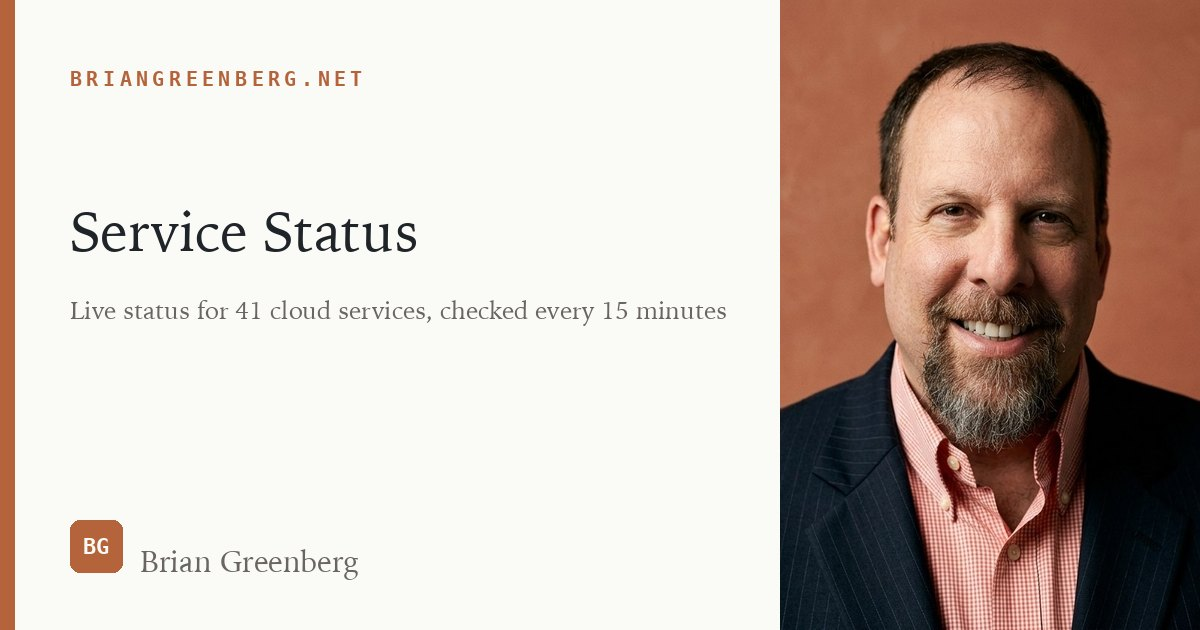
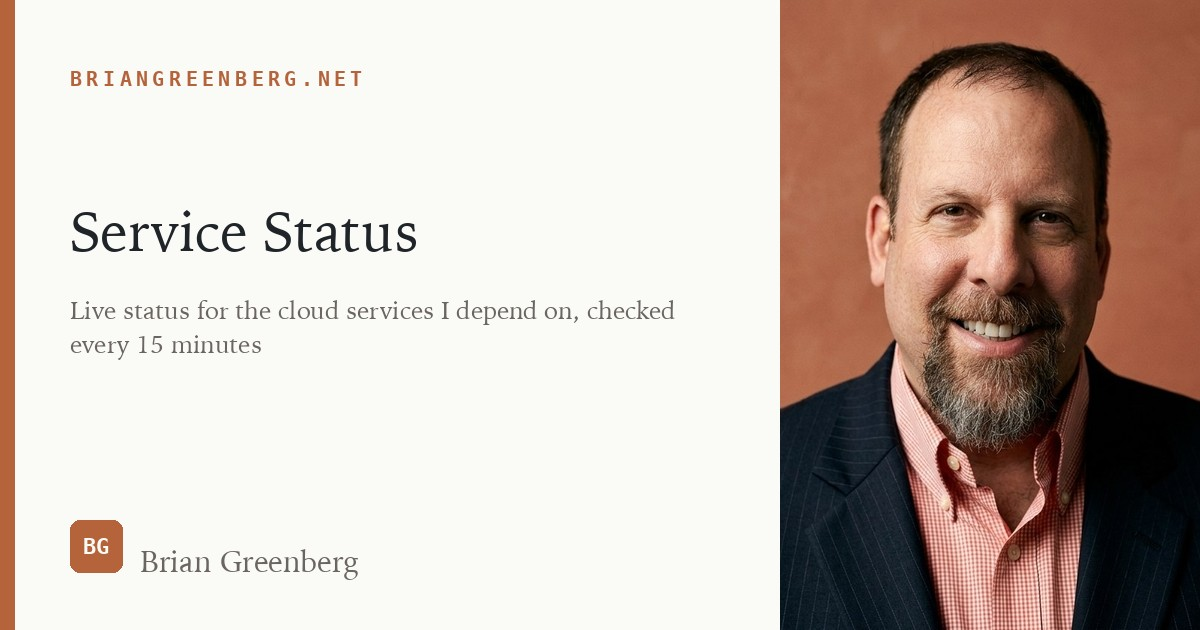
docs: full README line-by-line pass; count-free share card; identifier note in SECURITY.md (#52)
A grep-sweep is not a read-through — a full pass found five claims the
pattern sweeps missed because they matched no drift pattern:
- the troubleshooting row said the limits block is "commented out" (it is
  active, and deliberately so — the row now explains the plan-lapse tripwire)
- "~35 third-party feeds" (46; now phrased count-free so it cannot drift)
- "five vendors cannot show a component breakdown" — four of the five gained
  breakdowns on 2026-08-01; live-verified against /api/status: only Signal
  remains, and the bullet now says so
- Okta's 10 ms budget rationale re-anchored to the perf gate
- audit PR range and required-check count brought current

card.jpg regenerated from the site's own make_card.py (render_page mode)
with a count-free subtitle — the old card hardcoded "41 cloud services" on a
46-vendor board, and a baked number can only ever drift.

SECURITY.md gains the committed-identifiers-are-not-credentials note (D1
database_id, zone names): the reasoning is now durable instead of living in
one wrangler.jsonc comment.

Changed region(s): [[0.185, 0.4825, 0.6167, 0.5127], [0.0617, 0.5429, 0.2158, 0.573]]

diff --git a/README.md b/README.md
@@ -3,11 +3,12 @@
 [![CI](https://github.com/bjgreenberg/vendor-dashboard/actions/workflows/ci.yml/badge.svg)](https://github.com/bjgreenberg/vendor-dashboard/actions/workflows/ci.yml)
 [![License: Apache-2.0](https://img.shields.io/badge/License-Apache_2.0-blue.svg)](LICENSE)
 
-Last updated: 2026-08-02 10:23 PM CDT
+Last updated: 2026-08-02 10:31 PM CDT
 
 Monitors the live operational status of a configurable set of SaaS and cloud
 services by polling each vendor's own public status endpoint, and serves a
-single-pane dashboard. Runs as a Cloudflare Worker on a 15-minute schedule.
+single-pane dashboard. Runs as a Cloudflare Worker; every vendor is
+re-checked on a 15-minute cycle.
 
 Live at **<https://briangreenberg.net/service-status>**.
 
@@ -294,7 +295,7 @@ All third-party Actions are SHA-pinned; container tools are digest-pinned.
   data", never "All systems operational".
 - **Staleness is surfaced.** If the newest snapshot is older than two collection
   intervals, the page says so — the dead-man's switch for our own cron.
-- **Vendor content is untrusted input.** ~35 third-party feeds are escaped on
+- **Vendor content is untrusted input.** Every vendor feed is escaped on
   output; a strict CSP with a per-response nonce is the second line.
 - **404 is treated as retryable**, unusually. Microsoft's endpoint was measured
   at ~50% availability; the cost of being wrong is bounded because the answer
@@ -319,15 +320,16 @@ All third-party Actions are SHA-pinned; container tools are digest-pinned.
   Entra, Intune and Defender are absent. The row is labelled accordingly.
   Enterprise tenant health requires the authenticated Microsoft Graph Service
   Health API.
-- **Five vendors cannot show a component breakdown.** Google, Okta and Concur
-  publish only current *incidents*; Iorad and Stormboard publish a single
-  page-level state. There is no service catalogue to expand without inventing
-  one, so those rows have no disclosure.
+- **Signal cannot show a component breakdown** — it publishes a single
+  page-level sentence and nothing underneath (verified 2026-08-01). Every
+  other vendor now lists components, several via secondary catalogue
+  endpoints found by reading their status pages' network logs.
 - **Okta has no public JSON API** — `summary.json`, `index.json`,
   `history.atom` and `history.rss` all return 401. The adapter parses the
   incident records the status page embeds as JSON, using `indexOf` plus a linear
-  bracket walk rather than regex, because the page is ~347 KB against a 10 ms
-  CPU budget.
+  bracket walk rather than regex — written against the original free plan's
+  10 ms CPU budget and kept because cheap parsing is still enforced (see the
+  `perf` gate).
 - **No uptime history UI yet.** History *is* recorded from day one; only the
   reporting is unbuilt.
 
@@ -342,14 +344,14 @@ All third-party Actions are SHA-pinned; container tools are digest-pinned.
 | Is collection alive right now? | `curl -sf /service-status/health` — 200 with `age_minutes` while fresh; 503 once the snapshot is older than three cycles (45 min) or D1 is unreachable |
 | "This data may be stale" banner | Collection has not succeeded in >30 minutes. The collector, not the vendors, is the problem |
 | `Apple` unknown locally but fine in production | A host with no IPv6 egress. Node's fetch tries AAAA first; Apple is the only vendor publishing AAAA records |
-| Deploy fails: "CPU limits are not supported for the Free plan" | The `limits` block is paid-only. It is commented out in `wrangler.jsonc` |
+| Deploy fails: "CPU limits are not supported for the Free plan" | The declared `limits` block is a deliberate tripwire: it means the Workers Paid subscription has lapsed. Restore the plan (or consciously remove the block AND accept 10 ms CPU kills) |
 
 ## Going public
 
 This repository is **private**. Pre-flight completed 2026-08-02 (audit
 follow-up): vendor marks untracked as a build artifact (trademark-clean tree),
 internal project-notes references removed, reference-implementation framing
-added, and the 2026-08-01 security audit fully remediated (PRs #32–#44).
+added, and the 2026-08-01 security audit fully remediated (PRs #32–#51).
 Remaining steps, in order:
 
 1. **Deploy first, then flip** — make public only after the pending
@@ -368,7 +370,7 @@ Remaining steps, in order:
    history as a required check (green; two documented public-identifier
    fingerprints in `.gitleaksignore`), and `.clasp.json` / `creds.json` were
    confirmed never committed via `git log --all --follow`.
-5. Branch protection on `main` is already in place: five required status
+5. Branch protection on `main` is already in place: six required status
    checks (`test`, `lint`, `perf`, `docs-render`, `cff-validate`, `secret-scan`),
    linear history, no force pushes, **enforced for admins**.
 6. At flip time, in repo settings (mirroring `senior-engineering-partner`):

diff --git a/SECURITY.md b/SECURITY.md
@@ -44,6 +44,13 @@ dashboard** at `briangreenberg.net/service-status` plus a JSON API and a
    (`wrangler` OAuth / `CLOUDFLARE_API_TOKEN`) live outside the repo;
    `.clasp.json` / `creds.json` are gitignored relics verified never
    committed.
+5. **Committed identifiers are not credentials.** The D1 `database_id` in
+   `wrangler.jsonc` is an account-scoped identifier: every operation against
+   it requires an API token for the owning Cloudflare account, and no
+   unauthenticated Cloudflare surface accepts a bare database ID. It is
+   committed deliberately — the deploy is not reproducible without it. The
+   same reasoning covers the account's zone/route names, which are public by
+   virtue of serving the site.
 
 ## Automated security checks (CI)
 
